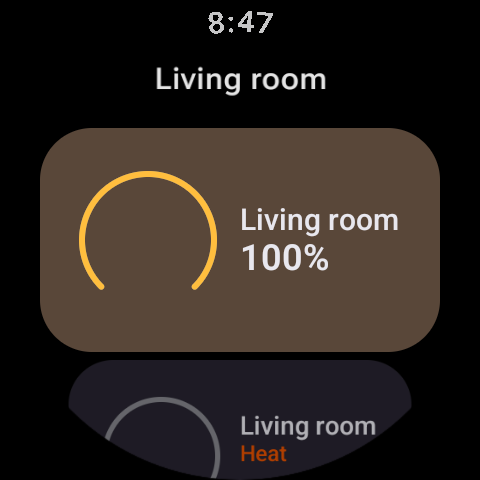
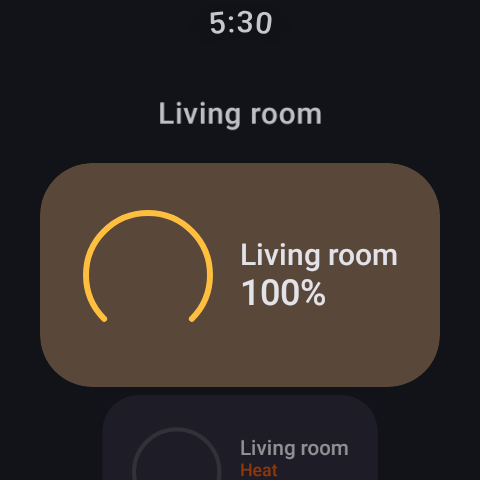
docs(play): refresh Wear and tablet Play Store screenshots

diff --git a/docs/play-screenshots.md b/docs/play-screenshots.md
@@ -60,8 +60,9 @@ listing publication uses these checked-in files.
 
 Phone shows Trinitron needle gauges and instrument meters, Nixie weather cards,
 and the real installed-design chooser. The 7-inch tablet contrasts Trinitron
-instruments with LCD segment displays. The 10-inch tablet shows LCD weather
-and Nixie instruments in the actual landscape layout. All use the built-in
+instruments with the Classic Material 3 Climate dashboard (weather, live
+cameras, thermostats). The 10-inch tablet shows the Classic (light) Climate
+dashboard in the actual landscape layout. Wear shows the unclipped lists. All use the built-in
 offline demo data; no private Home Assistant account is involved.
 
 Enter the debug demo session with `--ez terrazzo.test.demo_mode true`, then
